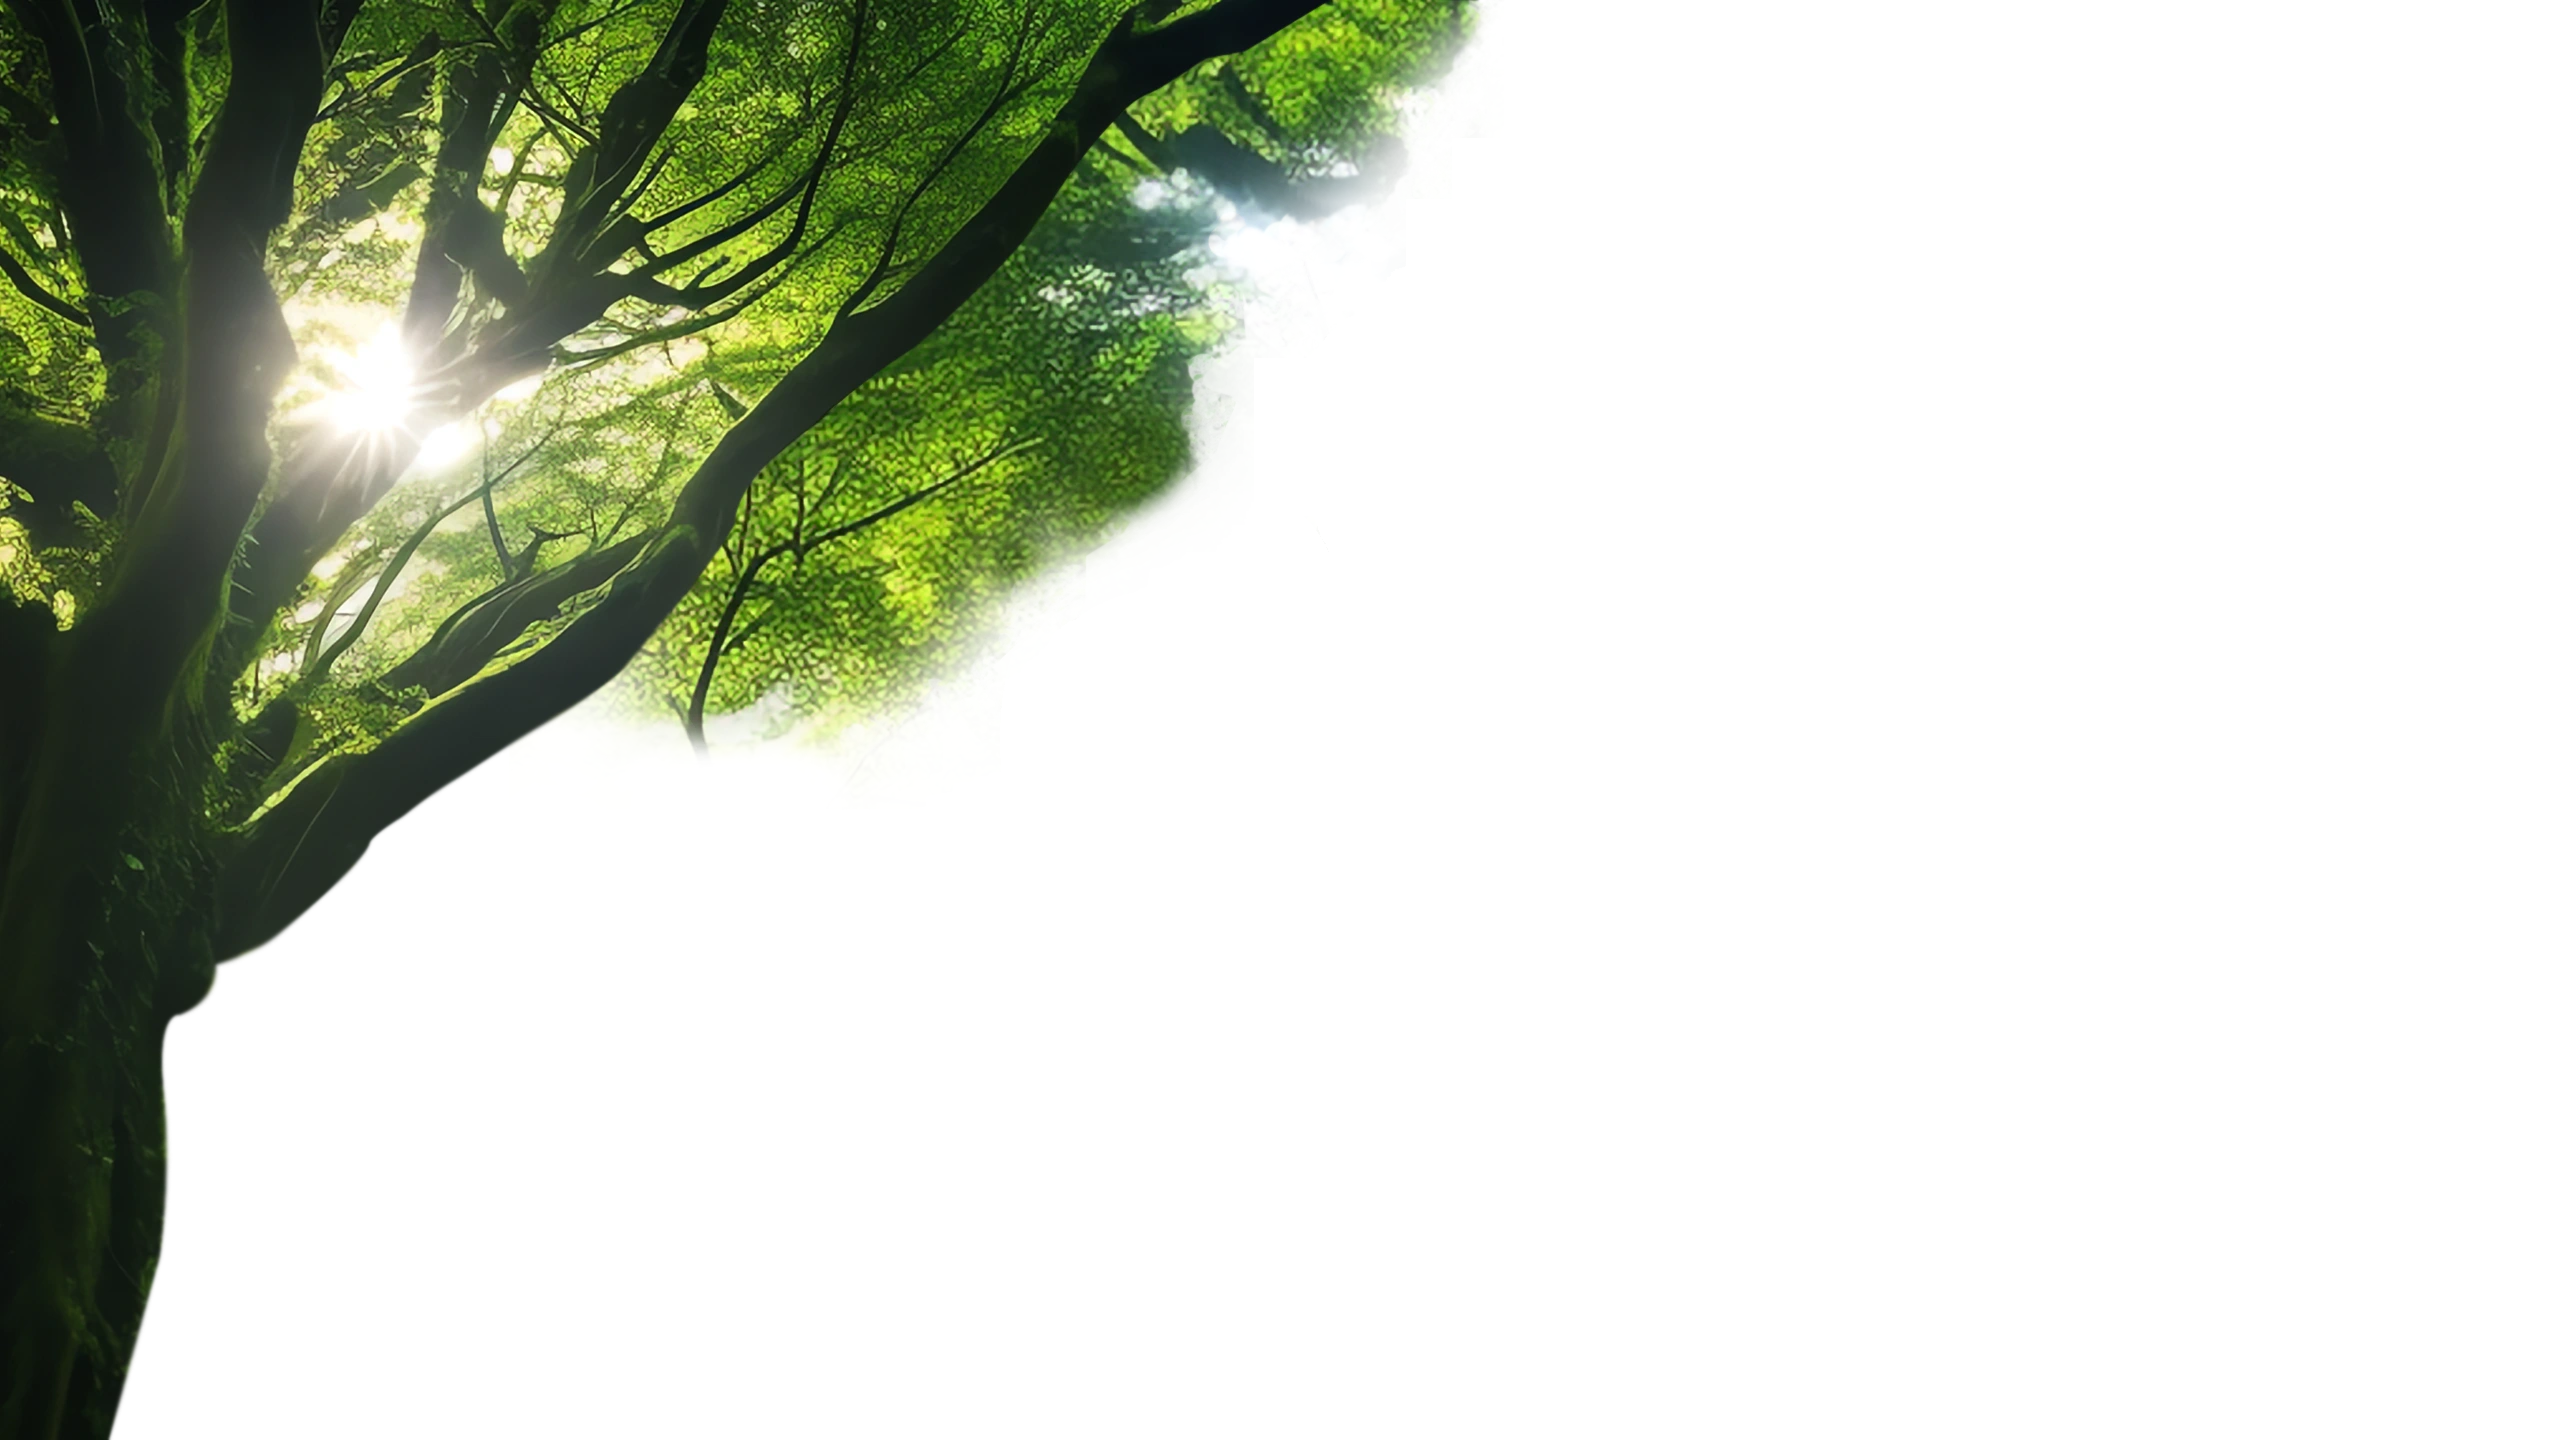
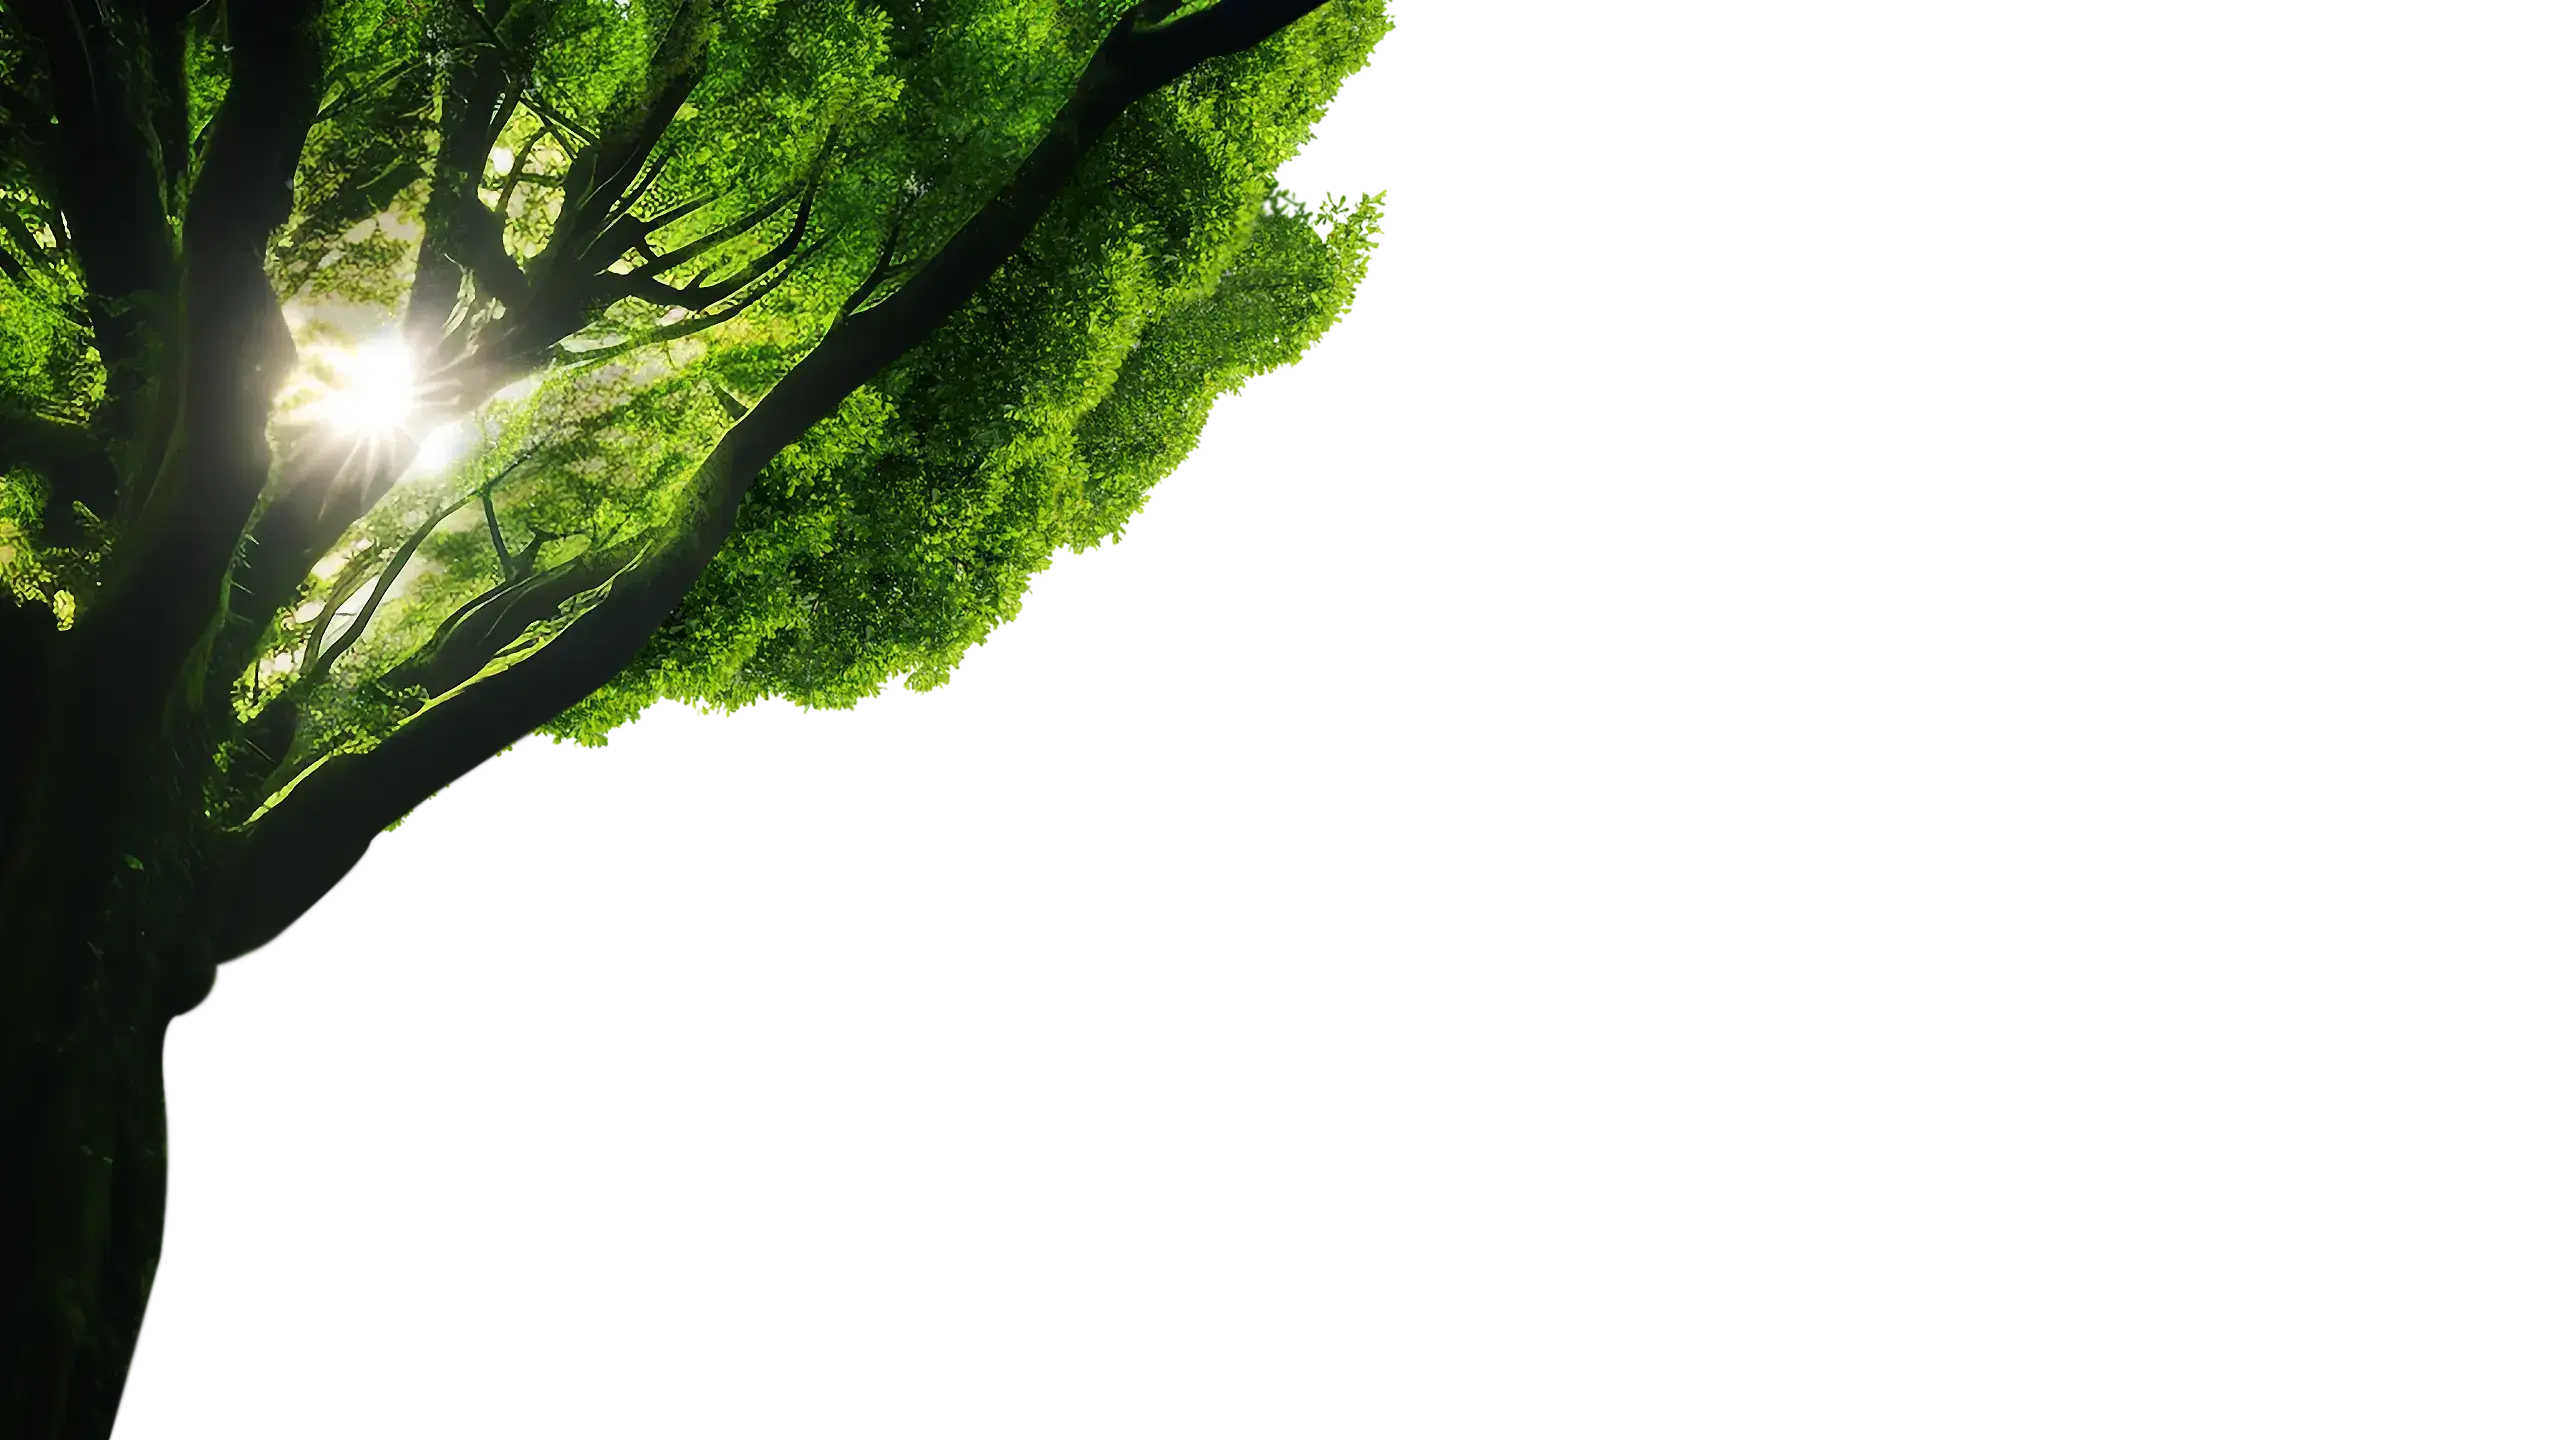
updated trees, header, css for  125,150 zoom browser

Changed region(s): [[0.0, 0.0, 0.5938, 0.5938], [0.0625, 0.6562, 0.0938, 0.6875]]

diff --git a/src/styles/satvam.scss b/src/styles/satvam.scss
@@ -31,7 +31,7 @@ html.lenis, html.lenis body {
 
 *{margin:0;padding:0;-webkit-font-smoothing:antialiased;line-height:normal;}
 html{font-size:62.5%;}
-body{margin:0 auto;color:$site-color;position:relative;font-family:$balooBhai;overflow-x:hidden;background-color:$light-grey-color;font-size:2.4rem;background: url("/images/texture-bg.webp") center center repeat;background-size:100% auto}
+body{margin:0 auto;color:$site-color;position:relative;font-family:$balooBhai;overflow-x:hidden;background-color:$light-grey-color;font-size:2.4rem;background:url("/images/texture-bg.webp") center center repeat;background-size:100% auto}
 a:active,a:focus,input:focus,textarea:focus,select,button,.form-control,textarea:hover,.form-control:hover,textarea:active,.form-control:active,textarea:focus,.form-control:focus,button:focus,button:active,button:hover,label:focus,.swiper-button-next,.swiper-button-prev{outline:0px!important;box-shadow:none!important;font-size:2.4rem;}
 a:active,a:focus{outline:expression(hideFocus='true')}
 ::-moz-focus-inner{border:1px solid transparent!important}
@@ -55,6 +55,8 @@ header{z-index:99;padding:0 5.04466631634% 0 5.04466631634%;height:0;}
 .hamburger-search{display:flex;align-items:center;}
 .brand-base,.hs-base{z-index:85;transform:scale(2);background:$red-color;filter: blur(50px) invert(1);mix-blend-mode:color-burn;opacity:1;}
 .brand-base img,.hs-base img{opacity:0;}
+.search-link,.search-btn{width:37px;}
+
 .search-btn{right:10px;top:50%;transform:translateY(-50%);background:none;border:none;position:relative;z-index:9;}
 .search-container{width:100%;left:0px;top:-160px;height:160px;background-color:$red-color;transition:all 0.4s ease-out 0s;z-index:90;}
 .search-sub{top:50%;transform:translateY(-50%);right:13%;width:74%;padding:0.7rem 80px 0.7rem 1rem;position:relative;z-index:9;}
@@ -621,7 +623,7 @@ p{font-family:$balooBhai;font-size:3rem;line-height:4rem;padding-bottom:1.5rem;}
   .content-scroll{transition:all 1.2s ease 0s;}
   ul,li a,.effect div{width:40rem;}
   ul li{position:relative;z-index:9;}
-  ul li a,.effect div{display:block;position:relative;padding:25px 15px 25px 40px;font-size:2.5rem;}
+  ul li a,.effect div{display:block;position:relative;padding:25px 15px 25px 40px;font-size:2.45rem;}
   ul li a span,.effect div span{position:absolute;left:13rem;top:50%;transform:translateY(-50%);white-space:nowrap;display:block;text-transform:capitalize;}
   ul li a img,.effect div img{filter:grayscale(1);width:auto;height:5.5rem;display:block;}
   ul li.active a,ul li:hover a{color:$red-color}
@@ -629,7 +631,7 @@ p{font-family:$balooBhai;font-size:3rem;line-height:4rem;padding-bottom:1.5rem;}
   .effect{left:0;background:rgba($white-color, .5);z-index:-1;border-left:2px solid $red-color;transition:all 0.3s ease-out;}
   .effect div{opacity:0;}
 }
-.left-links:hover,.effect{width:40rem;}
+.left-links:hover,.effect{width:41rem;}
 .left-links:hover{box-shadow:15px 15px 16px rgba(0,0,0,0.1);}
 .international-product-range{
   background:url("/images/texture-bg.webp") left top repeat;padding-top:128px;padding-bottom:130px;}
@@ -1280,6 +1282,35 @@ strong{font-weight:bold;}
 .blog-contetns ul{padding-left:3rem;}
 .blog-contetns ul li{list-style:disc!important;}
 
+
+@media only screen and (min-width:992px) and (-Webkit-min-device-pixel-ratio:1.25)
+{
+  .satvam-brand, .brand-base{width:45px;}
+  .search-link,.search-btn{width:30px;height:30px}
+  .searchbars-close-overlay img{height:30px;}
+  .hamburger{width:40px;height:23px;}
+  
+  .left-links{height:calc(100vh - 274px)}
+  .left-links{width:10rem;padding:4rem 0;} 
+  .left-links .category-sub{top:4rem;bottom:4rem;} 
+  .left-links ul li a, .left-links .effect div{padding:15px 15px 15px 28px;font-size:2rem;}
+  .left-links ul li a img, .left-links .effect div img{height:4.5rem;}
+  .left-links ul li a span, .left-links .effect div span{left:10rem;}
+}
+@media only screen and (min-width:992px) and (-Webkit-min-device-pixel-ratio:1.5)
+{
+  .satvam-brand, .brand-base{width:40px;}
+  .search-link,.search-btn{width:25px;height:25px}
+  .searchbars-close-overlay img{height:25px;}
+  .hamburger{width:35px;height:23px;}
+  
+  .left-links{height:calc(100vh - 228px);top: 15rem;}
+  .left-links{width:10rem;padding:4rem 0;} 
+  .left-links .category-sub{top:4rem;bottom:4rem;} 
+  .left-links ul li a, .left-links .effect div{padding:15px 15px 15px 28px;font-size:2rem;}
+  .left-links ul li a img, .left-links .effect div img{height:4.5rem;}
+  .left-links ul li a span, .left-links .effect div span{left:10rem;}
+}
 
 .popup-hidden{width:768px;display:none;padding:35px}
 .animated-modal {border-radius:4px;overflow:hidden;transform: translateY(-50px);transition:all .7s;}

diff --git a/src/app/components/header.js b/src/app/components/header.js
@@ -65,15 +65,15 @@ const Header = () => {
     <> 
     <header id="header" className={`position-fixed ${isActive ? 'opened' : ''} ${isSearchActive ? 'search-opened' : ''}`}>
     </header>    
-    <a className="satvam-brand position-fixed d-block" href={'/'}><img src="/images/satvam.svg" loading="eager" width={55} height={80} className="w-100" alt="satvam" /><span className="position-absolute"><img src="/images/satvam.svg" width={55} height={80} className="w-100" alt="satvam" /></span></a>
+    <a className="satvam-brand position-fixed d-block" href={'/'}><img src="/images/satvam.svg" loading="eager" width={55} height={80} className="w-100 h-auto" alt="satvam" /><span className="position-absolute"><img src="/images/satvam.svg" width={55} height={80} className="w-100 h-auto" alt="satvam" /></span></a>
     <div className="hamburger-search position-fixed d-flex">
           <div className="search-main position-relative">
           <Link href="#" onClick={toggleSearchClass} className={`search-link position-relative d-block ${isSearchActive ? 'active' : ''}`}>
-            <img src="/images/search.svg" width={37} height={37} className="search-icon w-100" alt="search" /><div className="searchbars-close-overlay position-absolute"><img src="/images/close.svg" width={37} height={37} className="cloase-icon-overlay w-100" alt="search" /></div>
+            <img src="/images/search.svg" width={37} height={37} className="search-icon d-block w-100 h-auto" alt="search" /><div className="searchbars-close-overlay position-absolute"><img src="/images/close.svg" width={37} height={37} className="cloase-icon-overlay d-block w-100" alt="search" /></div>
           </Link>           
           </div>
           <Link href="#" onClick={toggleClass} className="hamburger d-block position-relative">
-            <img src="/images/hamburger.svg" width={47} height={27} className="w-100" alt="hamburger" />
+            <img src="/images/hamburger.svg" width={47} height={27} className="w-100 d-block h-auto" alt="hamburger" />
             <span className="bars bar1 position-absolute" /><span className="bars bar2 position-absolute" /><span className="bars bar3 position-absolute" />
           </Link>
       </div>
@@ -114,8 +114,8 @@ const Header = () => {
     </div>
     <span className="brand-base position-fixed d-block"><img src="/images/satvam.svg" loading="eager" width={55} height={80} className="w-100" alt="satvam" /></span>
     <div className="hs-base position-fixed d-flex">
-      <img src="/images/search.svg" width={37} height={37} className="search-icon" alt="search" />
-      <img src="/images/hamburger.svg" width={47} height={27} className="w-100" alt="hamburger" />
+      <img src="/images/search.svg" width={37} height={37} className="search-icon d-block h-auto" alt="search" />
+      <img src="/images/hamburger.svg" width={47} height={27} className="w-100 d-block h-auto" alt="hamburger" />
     </div>
     {/* <div className={`search-container position-fixed ${isSearchActive ? 'opened' : ''}`}>
         <div className="search-sub position-absolute">

diff --git a/src/app/components/search.jsx b/src/app/components/search.jsx
@@ -85,7 +85,7 @@ const Search = () => {
           <form onSubmit={handleSubmit}>
             <input type="text" onChange={(e) => setInputValue(e.target.value)}
              value={inputValue} className="form-control" placeholder="Search for product in the Satvam World." />
-            <button type="submit" disabled={loading} className={`search-btn position-absolute  ${loading ? 'disabled' : ''}`}><img src="/images/search.svg" width={37} height={37} className="w-100" alt="search" /><span className="position-absolute"><img src="/images/search.svg" width={37} height={37} className="w-100" alt="search" /></span></button>
+            <button type="submit" disabled={loading} className={`search-btn position-absolute  ${loading ? 'disabled' : ''}`}><img src="/images/search.svg" width={37} height={37} className="w-100 d-block h-auto" alt="search" /><span className="position-absolute"><img src="/images/search.svg" width={37} height={37} className="w-100 d-block h-auto" alt="search" /></span></button>
             {loading && <div className="search-loading w-100 text-center"><span className="position-absolute">... loading ...</span></div>}
           </form>
         </div>
